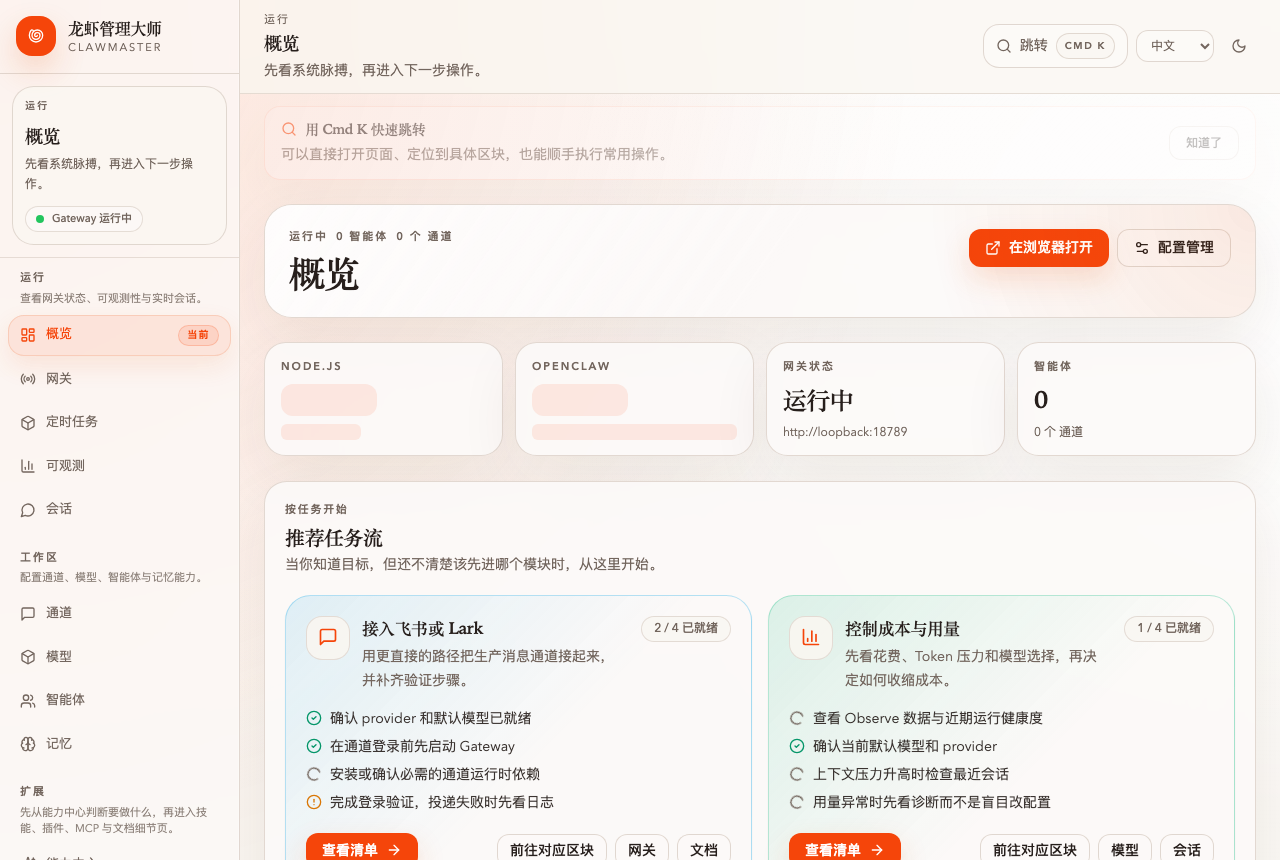
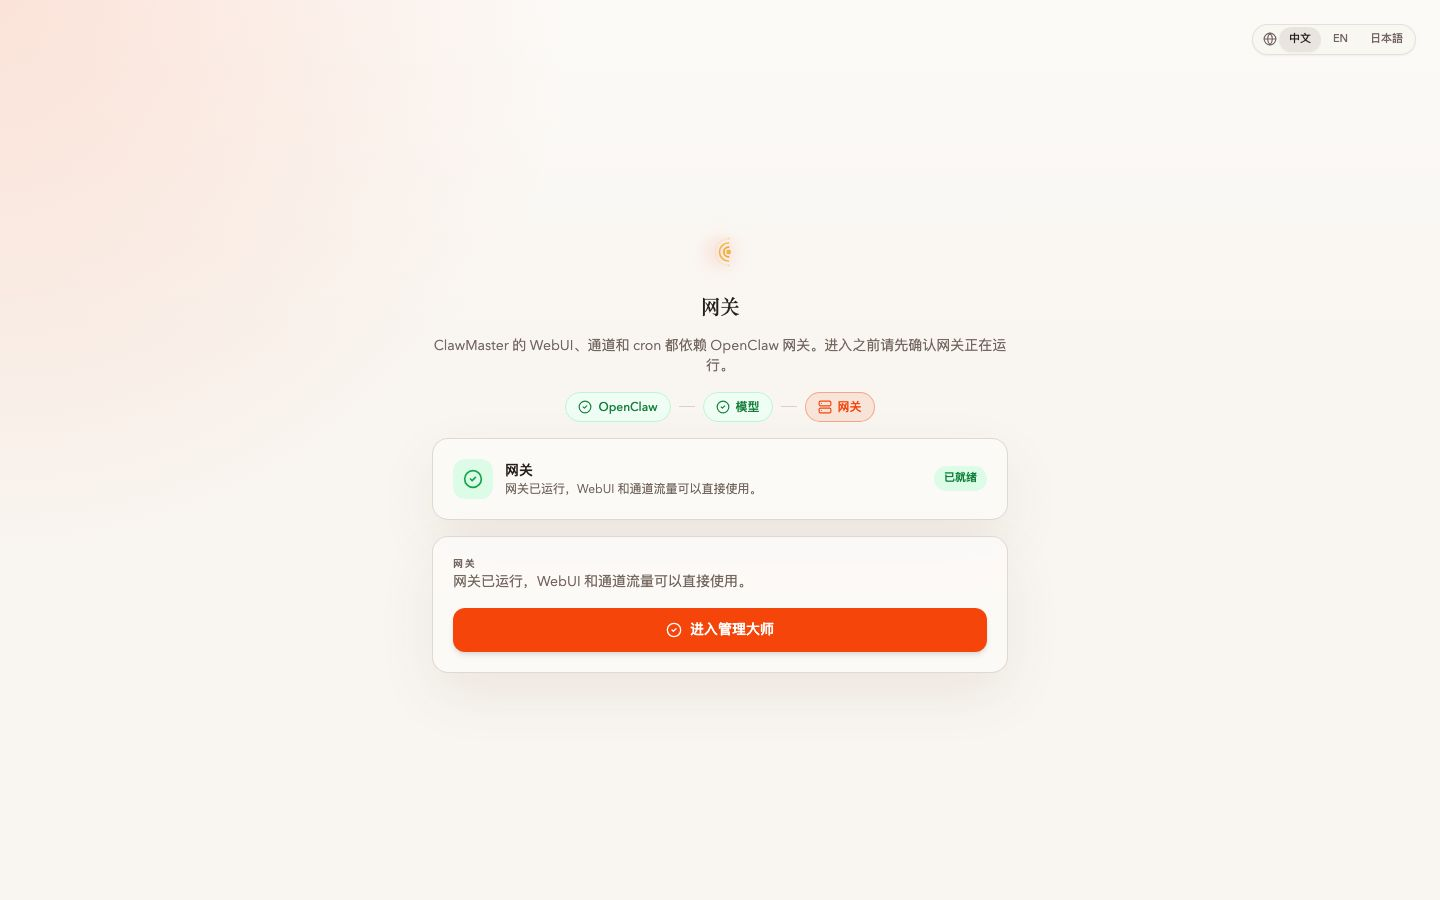
docs(setup): cover new gateway wizard step + wizard deeplink
- Add 09-gateway-stopped frame and refresh 10-complete to the new
  "进入管理大师" button inside the gateway step
- Walk through the gateway check (stopped/running) in CN/EN/JP task
  READMEs and add a port-conflict troubleshooting entry
- Lab README: document the token-bearing URL as the direct wizard
  deeplink plus how to rerun the wizard on a pre-configured machine

diff --git a/labs/20260425-shenzhen/README.md b/labs/20260425-shenzhen/README.md
@@ -50,9 +50,17 @@ next:        Ctrl+C to stop
 
 浏览器会**自动打开**那个带 `?token=` 的链接，落到**设置向导**第一步 — 这也就是 [动手 1](../../tasks/setup/wizard-ernie-glm/README_CN.md) 的起点。
 
-**如果浏览器没自动弹**（Linux 无 `xdg-open` / 跑在 SSH / 带 `--silent`）：
-- 手动把终端打印的 `web console:` 那一整条 URL（含 token）粘到浏览器即可
-- token 会写到 `~/.clawmaster/service/service-state.json`，丢了可 `cat` 那个文件找回
+**直达向导的 deeplink** — 就是 `web console:` 那一整条 URL：
+
+```
+http://127.0.0.1:16223/?token=<48位>
+```
+
+- 只要本机 `~/.openclaw/openclaw.json` 还没配过 provider，打开这个链接会**自动落在向导**（引擎检测 → 模型 → 网关），配完直接进控制台
+- 已经配过的机器想重跑向导：`mv ~/.openclaw/openclaw.json ~/.openclaw/openclaw.json.bak`，刷新页面即可
+- token 丢了就 `cat ~/.clawmaster/service/service-state.json`（`url` 字段就是完整 deeplink；`clawmaster status` 只打印不带 token 的 base URL）
+
+**如果浏览器没自动弹**（Linux 无 `xdg-open` / 跑在 SSH / 带 `--silent`），把上面那条 URL 粘到浏览器就行。
 
 **排错小抄**（终端不出 ready 块）：
 

diff --git a/tasks/setup/wizard-ernie-glm/README.md b/tasks/setup/wizard-ernie-glm/README.md
@@ -4,7 +4,7 @@
 **Time**: ~10 minutes
 **Level**: Beginner
 
-> Use the two-step setup wizard to detect OpenClaw, validate API keys for two Chinese LLM providers (Baidu ERNIE + Zhipu GLM), pick a default model, and land on the ClawMaster console.
+> Use the three-step setup wizard to detect OpenClaw, validate API keys for two Chinese LLM providers (Baidu ERNIE + Zhipu GLM), pick a default model, confirm the OpenClaw gateway is running, and land on the ClawMaster console.
 
 > 🌐 **This task was authored first in 中文** — the most detailed and screenshot-accurate version is **[README_CN.md](./README_CN.md)**. An English version will follow. 日本語版：[README_JP.md](./README_JP.md)
 
@@ -25,8 +25,9 @@
 5. Click **Custom (OpenAI Compatible)**, enter:
    - Base URL: `https://open.bigmodel.cn/api/paas/v4`
    - API Key: your Zhipu key
-6. Verify, type model ID (e.g. `glm-5.1`), click **Enter ClawMaster**
-7. You land on the dashboard with both providers configured
+6. Verify, type model ID (e.g. `glm-5.1`), click **Next Step**
+7. Gateway check: wizard probes `/api/gateway/status`. If stopped, click **Start Gateway**; once it turns green, click **Enter ClawMaster**
+8. You land on the dashboard with both providers configured
 
 ## Key frames
 
@@ -39,7 +40,10 @@
 ![](./images/04-ernie-models.png)
 *After a successful key probe, the wizard dynamically loads the provider's model catalog.*
 
+![](./images/09-gateway-stopped.png)
+*Step 3: gateway check. If OpenClaw isn't running on 18789, the wizard offers a one-click **Start Gateway** before letting you enter the console.*
+
 ![](./images/10-complete.png)
-*Final step: GLM filled, model ID entered, ready to finish.*
+*Gateway is green — click **Enter ClawMaster** to land on the dashboard.*
 
 See [README_CN.md](./README_CN.md) for the full walkthrough with all 10 key frames, troubleshooting, and verification commands.

diff --git a/tasks/setup/wizard-ernie-glm/README_JP.md b/tasks/setup/wizard-ernie-glm/README_JP.md
@@ -4,7 +4,7 @@
 **所要時間**：約 10 分
 **レベル**：初級
 
-> 2 ステップのセットアップ ウィザードを使い、OpenClaw 検出・中国系 LLM プロバイダ 2 社（Baidu ERNIE + Zhipu GLM）の API キー検証・デフォルト モデル選択を行い、ClawMaster コンソールに到達します。
+> 3 ステップのセットアップ ウィザードを使い、OpenClaw 検出・中国系 LLM プロバイダ 2 社（Baidu ERNIE + Zhipu GLM）の API キー検証・デフォルト モデル選択・OpenClaw ゲートウェイ稼働確認を行い、ClawMaster コンソールに到達します。
 
 > 🌐 **このタスクは最初に中国語で執筆** されました — スクリーンショットと最も整合する完全版は **[README_CN.md](./README_CN.md)** です。日本語訳は追って提供予定。English: [README.md](./README.md)
 
@@ -25,8 +25,9 @@
 5. **Custom (OpenAI Compatible)** をクリックし、以下を入力：
    - Base URL：`https://open.bigmodel.cn/api/paas/v4`
    - API Key：Zhipu のキー
-6. 検証 → モデル ID（例：`glm-5.1`）を入力 → **「进入管理大师」**
-7. ダッシュボードに遷移し、両プロバイダが登録済み
+6. 検証 → モデル ID（例：`glm-5.1`）を入力 → **「次のステップ」**
+7. ゲートウェイ検査：ウィザードが `/api/gateway/status` をプローブ。停止中なら **「ゲートウェイを起動」** をクリック。緑になったら **「进入管理大师」**
+8. ダッシュボードに遷移し、両プロバイダが登録済み
 
 ## キーフレーム
 
@@ -39,7 +40,10 @@
 ![](./images/04-ernie-models.png)
 *キー検証成功後、Provider のモデル カタログが動的にロードされる。*
 
+![](./images/09-gateway-stopped.png)
+*ステップ 3：ゲートウェイ検査。OpenClaw が 18789 で稼働していない場合、ウィザードがワンクリックで **「ゲートウェイを起動」** を提供。*
+
 ![](./images/10-complete.png)
-*最終ステップ：GLM 設定済み、モデル ID 入力済み、完了直前。*
+*ゲートウェイが緑 — **「进入管理大师」** をクリックしてダッシュボードへ。*
 
 全 10 フレーム・トラブルシュート・検証コマンドを含む完全版は [README_CN.md](./README_CN.md) を参照してください。